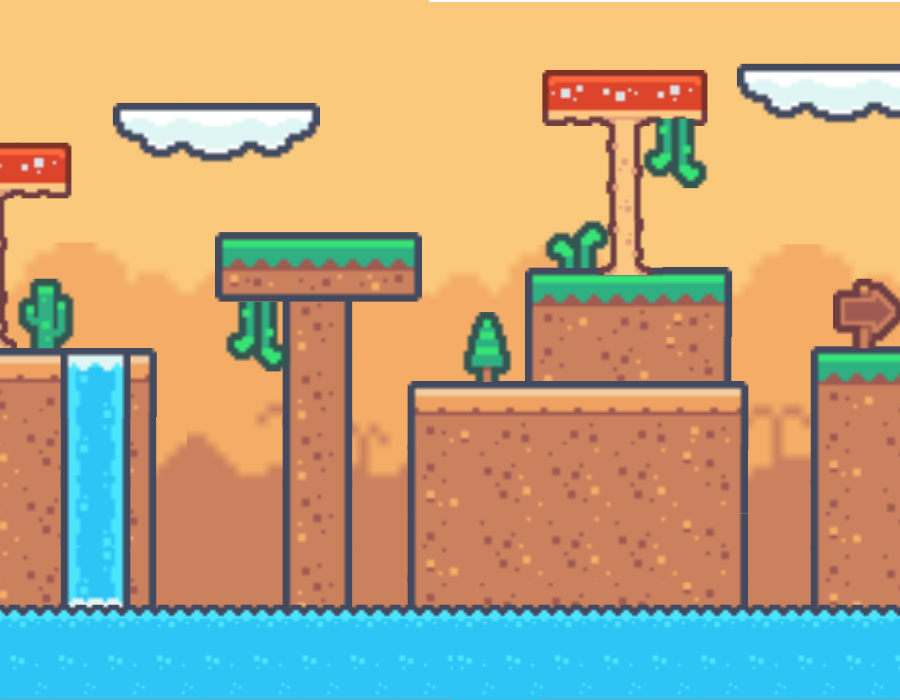
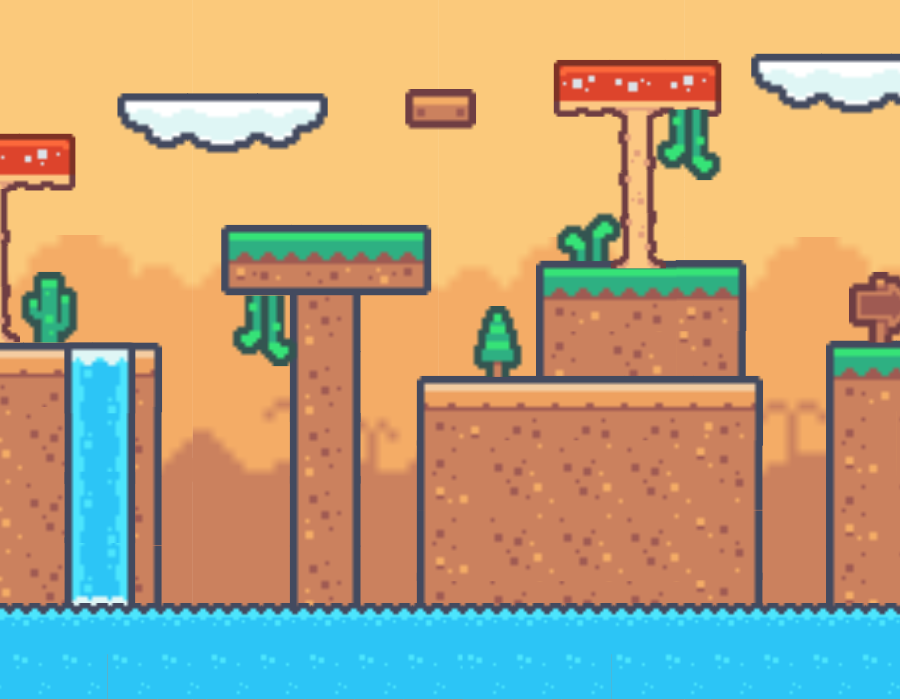
reposicionamento dos blocos invisíveis

diff --git a/main.py b/main.py
@@ -11,7 +11,7 @@ GAME_STATE = "PLAY" #TODO:APAGAR
 sounds_on = True
 score = 0
 lives = 3
-stage = 1 #TODO: Mudar para 0
+stage = 3 #TODO: Mudar para 0
 
 #background
 background = Actor("bg1")
@@ -23,7 +23,7 @@ bg_x = 0;
 
 #Jogador
 alien = Actor('alien1')
-alien.pos = 100, 56
+alien.pos = 40, 56
 alien.images = ["alien1","alien2"]
 alien.frame = 0
 alien.width = 100
@@ -32,31 +32,43 @@ alien_velocity_y = 0
 alien_collided = False
 
 #blocos invisíveis
-invisible_blocks = [
-    Rect(35, 105, 200, 70),
-    Rect(0, 360, 310, 70),
-    Rect(310, 430, 195, 70),
-    Rect(480, 125, 205, 70),
-    Rect(500, 485, 50, 70),
-    Rect(645, 480, 205, 70),
-    Rect(810, 345, 340, 70), #bloco com 5
-    Rect(900, 140, 165, 50), #cogumelo
-    Rect(1110, 100, 200, 20), #nuvem
-    Rect(1210, 230, 200, 70), #bloco triplo
-    Rect(1405, 380, 340, 70), #bloco com 5
-    Rect(1525, 265, 200, 70), #bloco triplo
-    Rect(1540, 70, 165, 50), #cogumelo
-    Rect(1735, 60, 200, 20), #nuvem
-    Rect(1940, 125, 70, 30), #bloco simples
-    Rect(2060, 220, 70, 30), #bloco simples
-    Rect(1975, 275, 70, 30), #bloco simples
-    Rect(1810, 345, 200, 70), #bloco triplo
-    Rect(2255, 280, 190, 20),
-    Rect(2542, 100, 200, 20), #nuvem
-    Rect(2328, 50, 190, 20),
-    Rect(2365, 420, 200, 70), #bloco triplo
-    Rect(2245, 487, 555, 70),
-    Rect(2478, 365, 320, 70)
+invisible_blocks_stg1 = [
+    Rect(16, 105, 200, 70),
+    Rect(306, 86, 70, 20),
+    Rect(0, 360, 300, 70),
+    Rect(295, 430, 195, 70),
+    Rect(470, 125, 205, 70),
+    Rect(460, 485, 50, 70),
+    Rect(630, 480, 205, 70),
+    Rect(793, 345, 340, 70), #bloco com 5
+]
+
+invisible_blocks_stg2 = [
+    Rect(0, 345, 155, 20), #bloco com 5
+    Rect(0,133, 70, 50), #cogumelo
+    Rect(118, 93, 200, 20), #nuvem
+    Rect(223, 224, 200, 20), #bloco triplo
+    Rect(418, 376, 340, 20), #bloco com 5
+    Rect(537, 262, 200, 20), #bloco triplo
+    Rect(552, 59, 165, 50), #cogumelo
+    Rect(752, 53, 200, 20), #nuvem
+    Rect(825, 342, 100, 20),
+    Rect(405, 90, 70, 20),
+]
+
+invisible_blocks_stg3 = [
+    Rect(20, 125, 70, 30), #bloco simples
+    Rect(118, 260, 70, 30), #bloco simples
+    Rect(226, 330, 70, 30), #bloco simples
+    Rect(0, 345, 98, 70), #bloco triplo
+    Rect(335, 280, 190, 20),
+    Rect(677, 105, 200, 20), #nuvem
+    Rect(411, 50, 190, 20),
+    Rect(451, 420, 200, 70), #bloco triplo
+    Rect(362, 487, 555, 70),
+    Rect(565, 365, 335, 70),
+    Rect(563, 164, 70, 20),            
+
 ]
 
 
@@ -99,10 +111,10 @@ def draw():
 
             alien.draw()
             move_player()
-            for block in invisible_blocks:
+            for block in invisible_blocks_stg1:
                 screen.draw.rect(block, "red")
 
-            alien_collided = any(alien.colliderect(block) for block in invisible_blocks)
+            alien_collided = any(alien.colliderect(block) for block in invisible_blocks_stg1)
 
             if alien_collided:
                 alien_velocity_y = 0
@@ -120,16 +132,16 @@ def draw():
 
             alien.draw()
             move_player()
-            for block in invisible_blocks:
+            for block in invisible_blocks_stg2:
                 screen.draw.rect(block, "red")
 
-            alien_collided = any(alien.colliderect(block) for block in invisible_blocks)
+            alien_collided = any(alien.colliderect(block) for block in invisible_blocks_stg2)
 
             if alien_collided:
                 alien_velocity_y = 0
 
-            if alien.y >=600:
-                lives_over()
+            # if alien.y >=600:
+            #     lives_over()
             
             if alien.x >=880:
                 next_stage()
@@ -141,16 +153,16 @@ def draw():
 
             alien.draw()
             move_player()
-            for block in invisible_blocks:
+            for block in invisible_blocks_stg3:
                 screen.draw.rect(block, "red")
 
-            alien_collided = any(alien.colliderect(block) for block in invisible_blocks)
+            alien_collided = any(alien.colliderect(block) for block in invisible_blocks_stg3)
 
             if alien_collided:
                 alien_velocity_y = 0
             
-            if alien.y >=600:
-                lives_over()
+            # if alien.y >=600:
+            #     lives_over()
             
             if alien.x >=880:
                 next_stage()
@@ -240,12 +252,12 @@ def move_player():
     if keyboard.left :
         alien.x -= 2  # Move para a esquerda
         # bg_x += 2
-        # for block in invisible_blocks:
+        # for block in invisible_blocks_stg1:
         #     block.x += 2
     if keyboard.right:
         alien.x += 2  # Move para a direita
         # bg_x -= 2
-        # for block in invisible_blocks:
+        # for block in invisible_blocks_stg1:
         #     block.x -= 2
     # if keyboard.right and bg_x == -WIDTH*4:
     #     alien.x += 2  # Move para a direita
